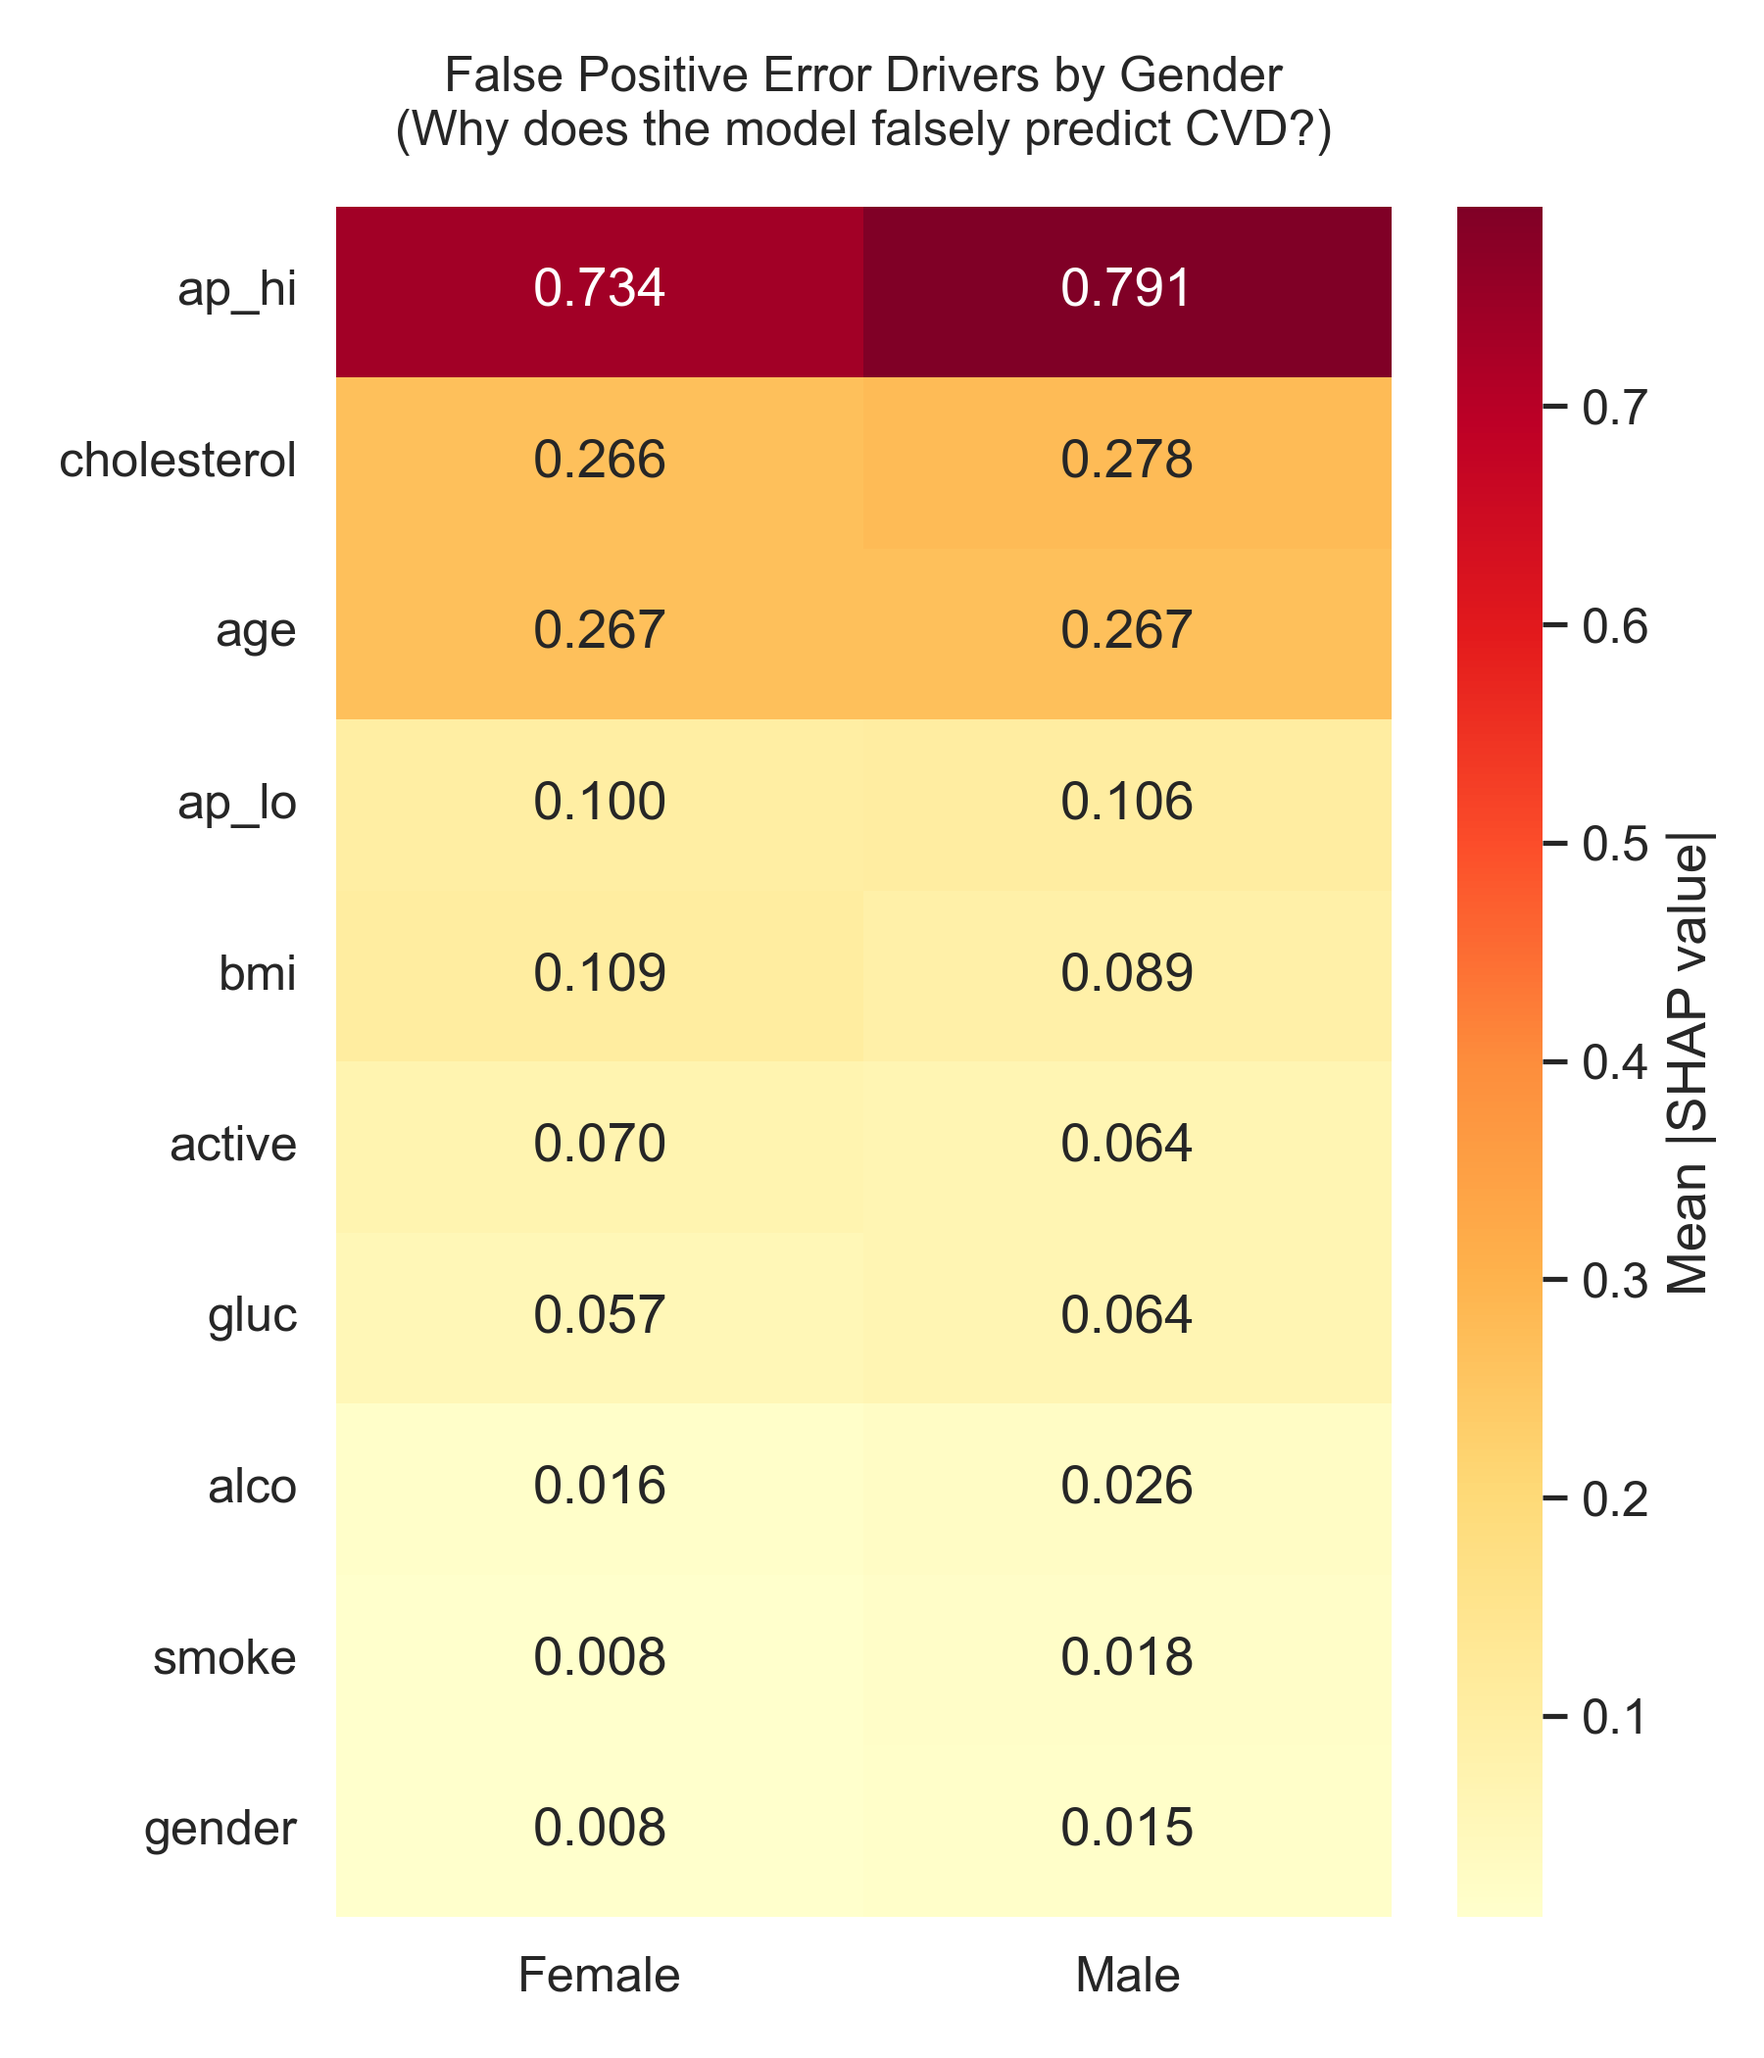
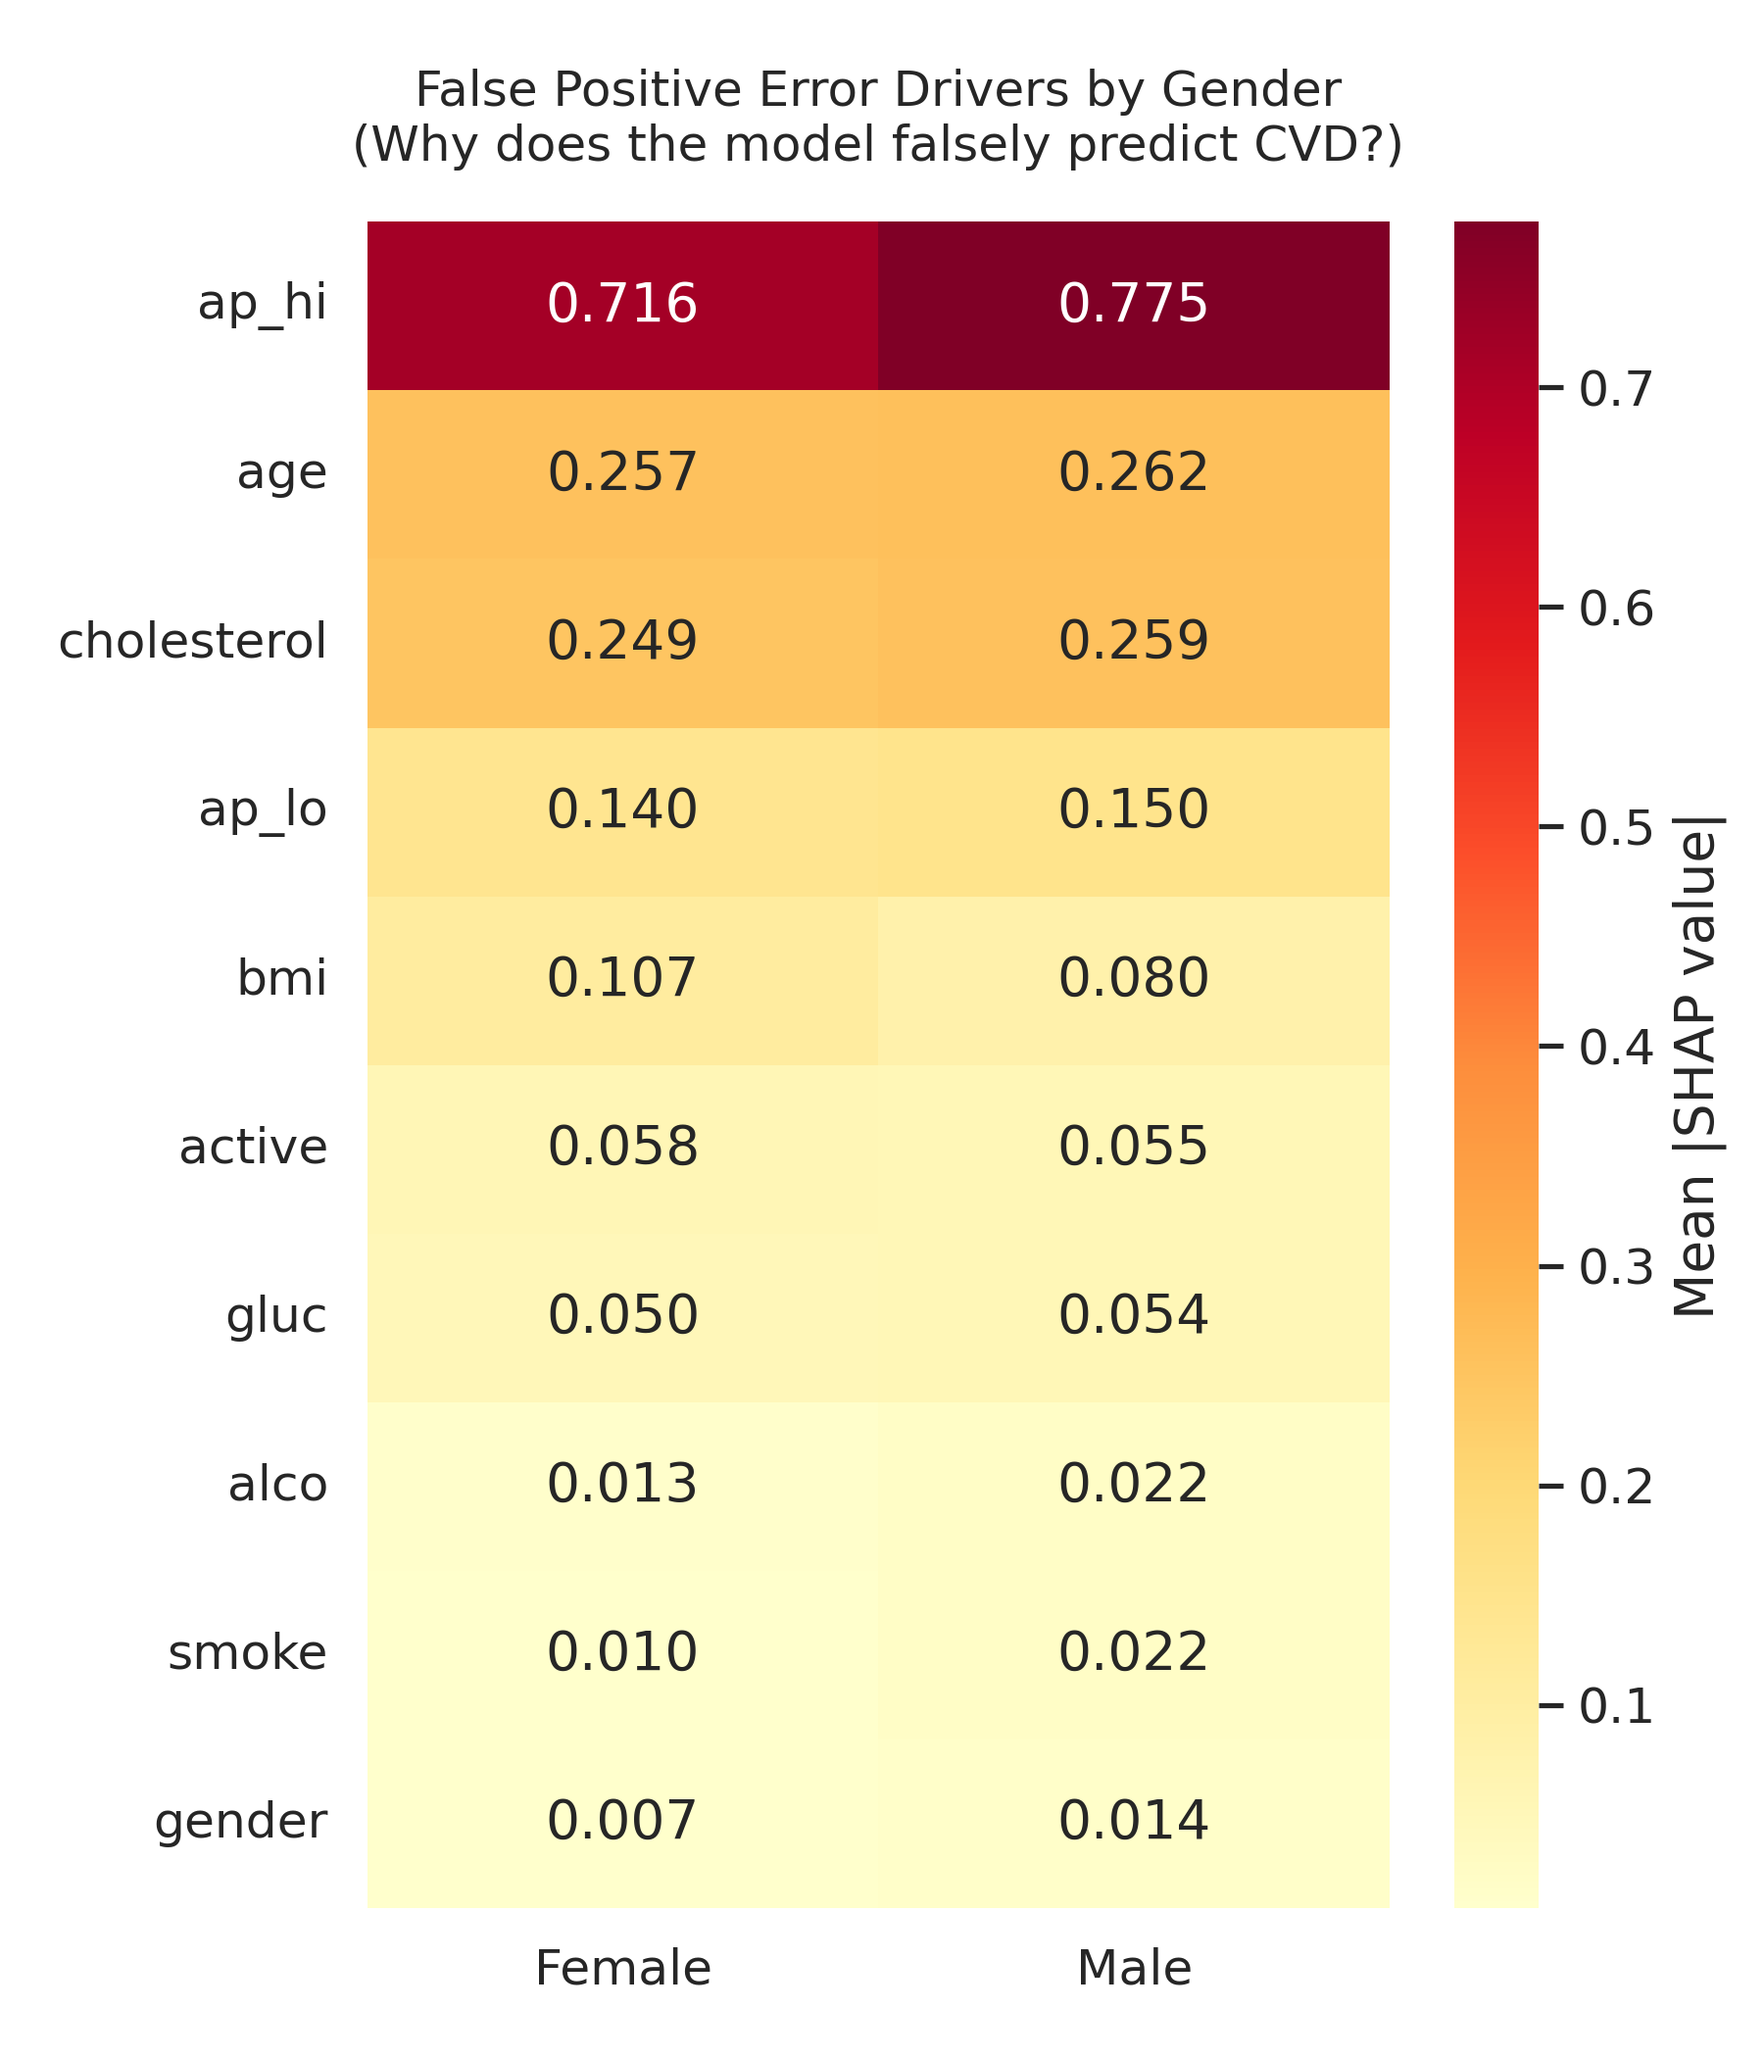
Updated the XGBoost classifier config to follow the literature.New results. Changed the run_xai pipeline to also allow for using a cached XGBoost model instead of always training a new one.

diff --git a/src/xai/run_xai.py b/src/xai/run_xai.py
@@ -7,6 +7,7 @@ and run the SHAP explainability analysis focusing on Feature Importance by Gende
 
 import json
 import sys
+import joblib
 import numpy as np
 import pandas as pd
 from pathlib import Path
@@ -36,12 +37,20 @@ def run_xai_pipeline():
     RESULTS_DIR.mkdir(parents=True, exist_ok=True)
     MODELS_DIR.mkdir(parents=True, exist_ok=True)
 
-    print("\n[pipeline] STEP 1: DATA LOADING & MODEL TRAINING")
+    print("\n[pipeline] STEP 1: DATA LOADING & MODEL TRAINING/LOADING")
     data = load_dataset(Path("data/cardio_train.csv"))
     data = preprocess_dataset(data)
     X_train, X_test, y_train, y_test, gender_train, gender_test = split_dataset(data)
     
-    model = train_xgboost(X_train, y_train, save_dir=MODELS_DIR)
+    model_path = MODELS_DIR / "best_xgboost.joblib"
+
+    if model_path.exists():
+        print(f"[pipeline] Loading existing model from {model_path}")
+        model = joblib.load(model_path)
+    else:
+        print("[pipeline] No saved model found. Training new model...")
+        model = train_xgboost(X_train, y_train, save_dir=MODELS_DIR)
+        evaluate_performance(model, X_test, y_test, save_path=RESULTS_DIR / "baseline_performance.json")
 
     print("\n[pipeline] STEP 2: SHAP EXPLAINABILITY ANALYSIS")
     shap_values = compute_shap_values(model, X_test)

diff --git a/src/fairness/intervention.py b/src/fairness/intervention.py
@@ -24,7 +24,7 @@ def apply_threshold_optimization(
     X_test: pd.DataFrame,
     y_test: pd.Series,
     gender_test: pd.Series,
-    constraint: str = "equalized_odds",
+    constraint: str = "true_positive_rate_parity",
 ) -> tuple:
     """Apply post-processing threshold optimization for fairness.
 
@@ -34,7 +34,7 @@ def apply_threshold_optimization(
     X_train, y_train, gender_train : training data (needed to fit thresholds)
     X_test, y_test, gender_test : test data for evaluation
     constraint : fairness constraint for ThresholdOptimizer
-                 (``"equalized_odds"`` or ``"demographic_parity"``)
+                 (``"equalized_odds"`` or ``"true_positive_rate_parity"``)
 
     Returns
     -------
